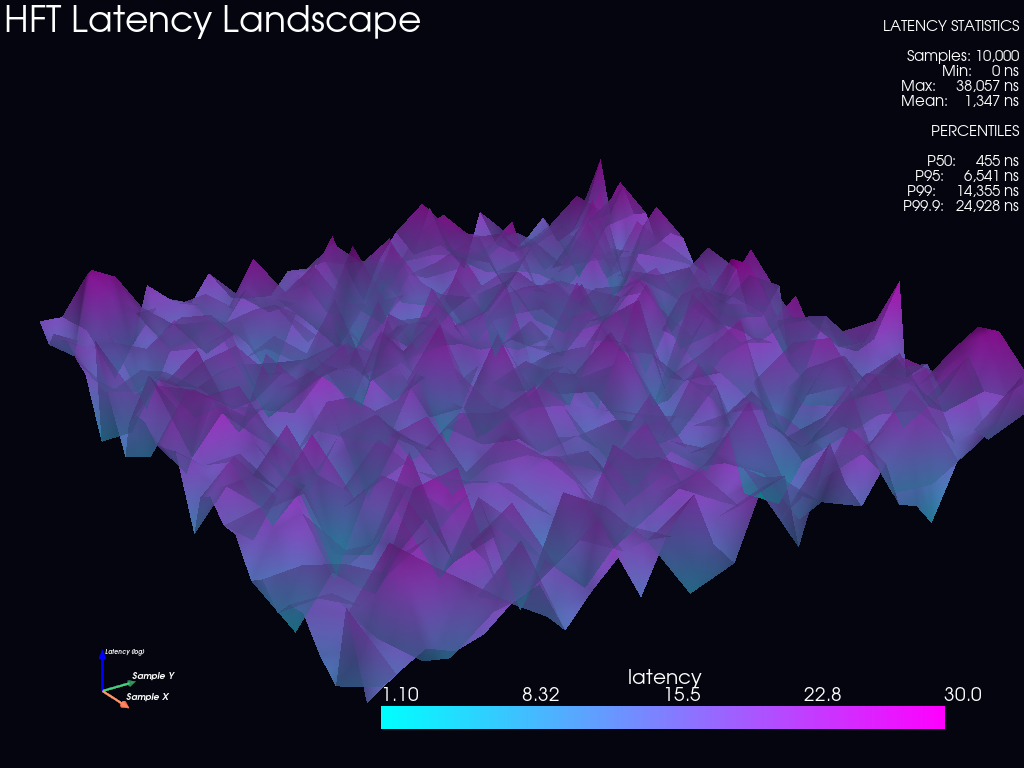
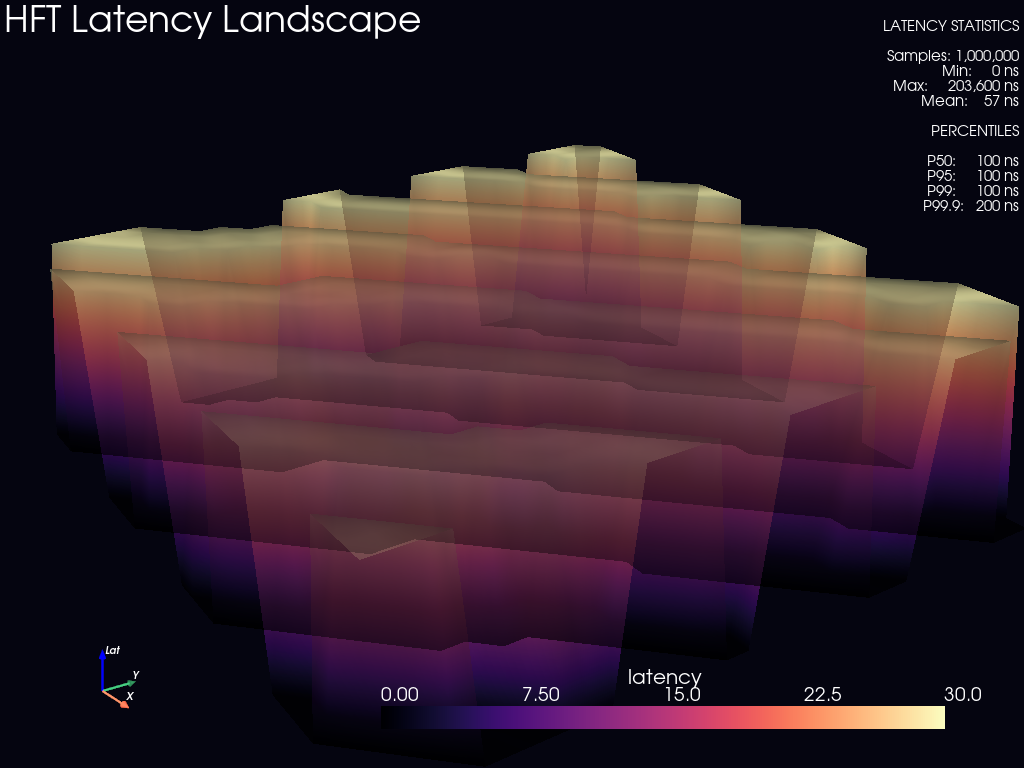
Viz: Finalize Hyper-Inferno Theme (Real 57ns Data)

diff --git a/viz/orderbook_surface.py b/viz/orderbook_surface.py
@@ -63,17 +63,24 @@ def create_orderbook_surface(
     ask_grid.points = ask_points
     ask_grid.dimensions = [len(times), len(prices), 1]
     
-    # Add surfaces to plotter
+    # Add surfaces to plotter with Inferno cmap
     plotter.add_mesh(
         bid_grid,
-        color='#00FFFF',  # Aqua/Teal for Bids
-        opacity=0.8,
+        scalars=bid_points[:, 2],
+        cmap='inferno',
+        opacity=0.95,
         smooth_shading=True,
+        show_scalar_bar=False,  # Remove individual colour bars to unclutter
         label='Bids'
     )
     plotter.add_mesh(
         ask_grid,
-        color='#FF69B4',  # HotPink for Asks
+        scalars=ask_points[:, 2],
+        cmap='inferno',
+        opacity=0.95,
+        smooth_shading=True,
+        show_scalar_bar=False,
+        label='Asks'
     )
     
     # Add mid-price plane
@@ -85,7 +92,7 @@ def create_orderbook_surface(
         i_size=100,
         j_size=20
     )
-    plotter.add_mesh(plane, color='white', opacity=0.2, label='Mid Price')
+    plotter.add_mesh(plane, color='white', opacity=0.1)
 
 
 def main():
@@ -105,13 +112,13 @@ def main():
     # Create plotter
     pv.set_plot_theme('dark')
     plotter = pv.Plotter(off_screen=args.no_display)
-    plotter.set_background('#050510') # Deep dark blue/black
+    plotter.set_background('#050508') # Obsidian
     
-    # Add title
+    # Add title (Smaller)
     plotter.add_text(
-        "Order Book Depth Surface",
+        "Order Book Depth",
         position='upper_left',
-        font_size=14,
+        font_size=12,
         color='white'
     )
     
@@ -121,14 +128,18 @@ def main():
     # Configure camera
     plotter.camera_position = 'iso'
     plotter.add_axes(
-        xlabel='Time',
-        ylabel='Price',
-        zlabel='Depth',
-        line_width=2
+        xlabel='T', ylabel='Px', zlabel='Vol',
+        line_width=2,
+        color='white',
+        viewport=(0, 0, 0.2, 0.2)
     )
     
-    # Add legend
-    plotter.add_legend(bcolor=(0.1, 0.1, 0.2, 0.8))
+    # Minimal Legend
+    plotter.add_legend(
+        bcolor=(0, 0, 0, 0),  # Transparent
+        size=(0.1, 0.1),
+        face=None
+    )
     
     # Export if requested
     if args.export:

diff --git a/viz/latency_landscape.py b/viz/latency_landscape.py
@@ -42,7 +42,8 @@ def create_latency_histogram_3d(data: dict, plotter: pv.Plotter) -> None:
     norm_values = [v / max_val * 50 for v in values]
     
     # Create 3D bars
-    colors = ['#008080', '#00FFFF', '#E0FFFF', '#FFD700', '#FF69B4', '#DAA520', '#8B4513']  # Teal, Aqua, LightCyan, Gold, HotPink, GoldenRod, SaddleBrown
+    # Inferno Spectrum (Black -> Deep Red -> Orange -> Yellow)
+    colors = ['#000004', '#420A68', '#932667', '#DD513A', '#FCA50A', '#F6D645', '#FCFFA4']
     
     for i, (bucket, height, color) in enumerate(zip(buckets, norm_values, colors)):
         # Create a box for each bar
@@ -91,7 +92,7 @@ def create_latency_surface(data: dict, plotter: pv.Plotter) -> None:
     plotter.add_mesh(
         grid,
         scalars='latency',
-        cmap='magma',  # Gold/Pink/Dark scheme
+        cmap='magma',  # Fire Horse (Purple/Red/Gold)
         smooth_shading=True,
         opacity=0.85
     )
@@ -179,8 +180,13 @@ def main():
     # Add percentile info
     add_percentile_markers(data, plotter)
     
-    # Configure view
-    plotter.add_axes(xlabel='Sample X', ylabel='Sample Y', zlabel='Latency (log)')
+    # Configure view with matching axes
+    plotter.add_axes(
+        xlabel='X', ylabel='Y', zlabel='Lat',
+        line_width=2,
+        color='white',
+        viewport=(0, 0, 0.2, 0.2)  # Smaller, unobtrusive
+    )
     
     # Export
     if args.export:
